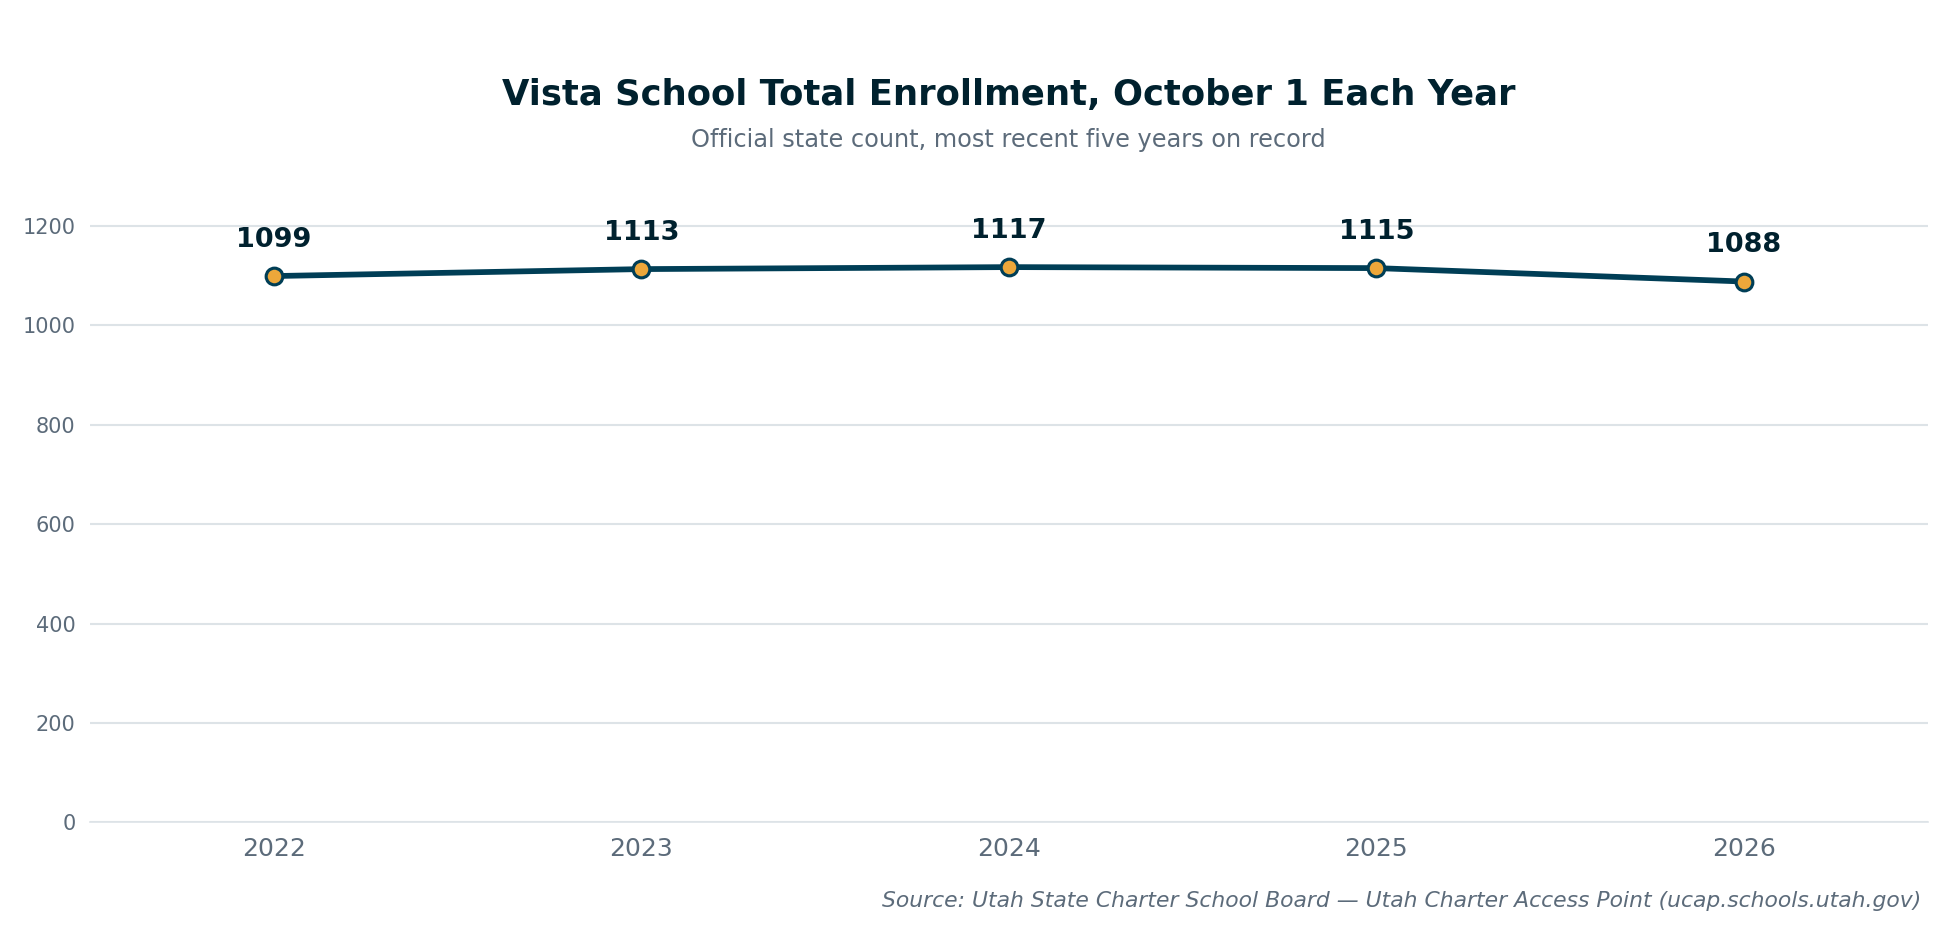
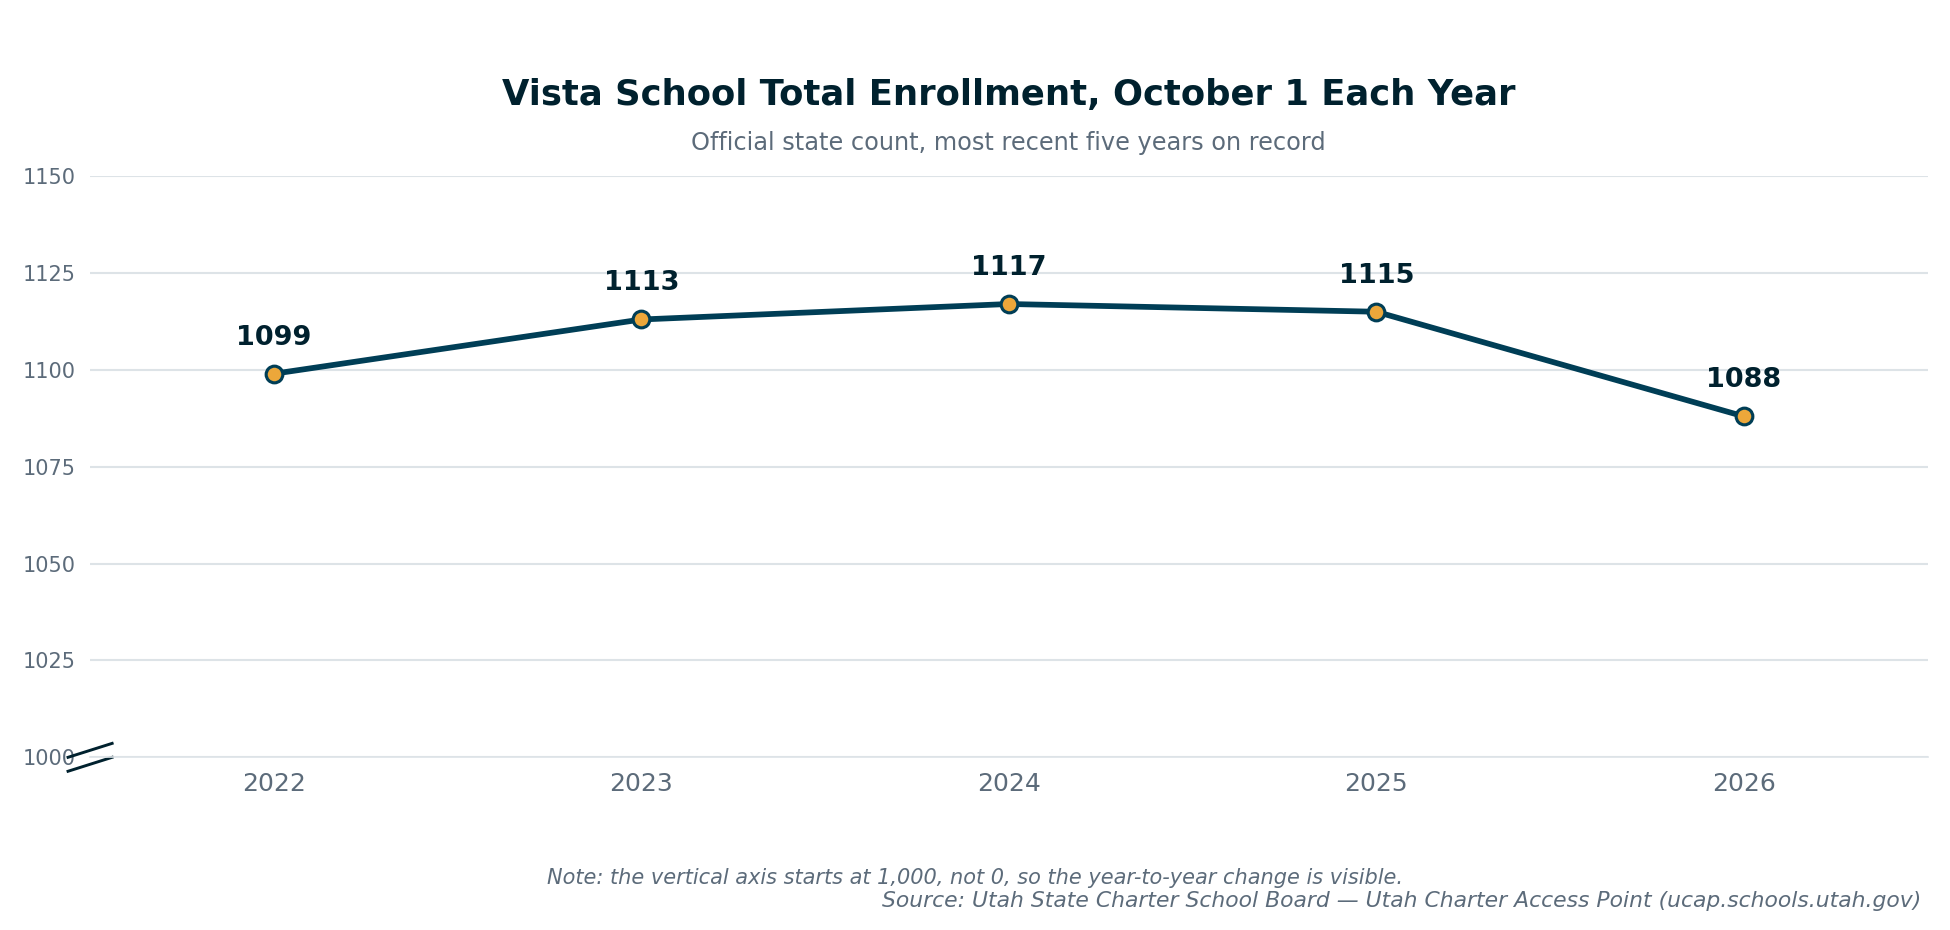
Home page: fix org chart connectors, pull titles from vistautah.com, zoom enrollment trend axis
Org chart:
- Fixed a diagonal connector jog under each branch head that read as a
  spacing glitch; now a clean right-angle elbow like the rest of the chart.
- Titles replaced with what vistautah.com currently lists instead of the
  board-meeting chart's wording: Marilyn Russell is ESL Coordinator (not
  ELL), Katelynn George is Title 1 Coordinator, LaNessa Stevens is Learning
  Coach, Bruce Hatch is Assessment Director / IT Specialist, Marie Ehlers is
  Head School Counselor (7-9), Danielle Robb is School Social Worker, Nicole
  Richins is College & Career Readiness / Student Council Adviser.
- The chart's "Special Education" box now shows Alicia Hutchinson (SPED
  Coordinator), matching the site's current SPED Personnel page -- the
  original chart's "Cori Fix" doesn't appear there. Flagged to Russ.
- Long role lines now wrap and auto-shrink instead of overflowing their box.
- Alt text and caption updated to match.

Enrollment trend chart:
- Y-axis now starts at 1,000 instead of 0 (with a break mark and a caption
  note saying so) so the 2025-to-2026 enrollment decline is actually visible
  instead of being flattened by a full 0-1,300 scale.

Claude-Session: https://claude.ai/code/session_01YPpVRz6AdkD3VBRGFtLYwq

diff --git a/home-full.html b/home-full.html
@@ -153,7 +153,7 @@
 
     <div class="exhibit-grid" style="grid-template-columns:1fr;">
       <div class="exhibit-card">
-        <img src="assets/leadership/vista-org-chart.png" alt="Vista School organizational chart: Vista School Board at top, then Dr. Justin Blasko as Executive Director. Reporting to him: Christine Giles (Deputy Director), Skyler Perkes (Human Resources), and Troy Bradshaw (Chief Operating Officer). Under Giles: Jocelyn Larkin (K-5 Principal) with K-5 Teachers, Chad Allman (6-9 Principal) with 6-9 Teachers, Cori Fix (Special Education), Katelynn George (Title I), Jenna Ayers (Behavior Coach), LaNessa Stevens (Instructional Coach), and Marilyn Russell (ELL). Under Perkes: Bruce Hatch (IT Specialist) and Marie Ehlers (7-9 College and Career Counselor), who oversees Danielle Robb (Social Worker), Shelli Jones (K-6 Counselor), and Nicole Richins (Student Council Advisor). Under Bradshaw: Food Service, Business Office, Transportation, IT Office, and Facilities.">
+        <img src="assets/leadership/vista-org-chart.png" alt="Vista School organizational chart: Vista School Board at top, then Dr. Justin Blasko as Executive Director. Reporting to him: Christine Giles (Deputy Director), Skyler Perkes (Human Resources), and Troy Bradshaw (Chief Operating Officer). Under Giles: Jocelyn Larkin (K-5 Principal) with K-5 Teachers, Chad Allman (6-9 Principal) with 6-9 Teachers, Alicia Hutchinson (SPED Coordinator), Katelynn George (Title 1 Coordinator), Jenna Ayers (Behavior Coach), LaNessa Stevens (Learning Coach), and Marilyn Russell (ESL Coordinator). Under Perkes: Bruce Hatch (Assessment Director / IT Specialist) and Marie Ehlers (Head School Counselor, 7-9), who oversees Danielle Robb (School Social Worker), Shelli Jones (K-6 Counselor), and Nicole Richins (College and Career Readiness / Student Council Adviser). Under Bradshaw: Food Service, Business Office, Transportation, IT Office, and Facilities. Titles current per vistautah.com; the SPED Coordinator and a few coaching titles differ from the original board-meeting chart, which listed older names/titles for those roles.">
         <p class="exhibit-caption">Vista's organizational chart, as presented at a public Board meeting, redrawn here for readability. Source: vistautah.com.</p>
       </div>
     </div>
